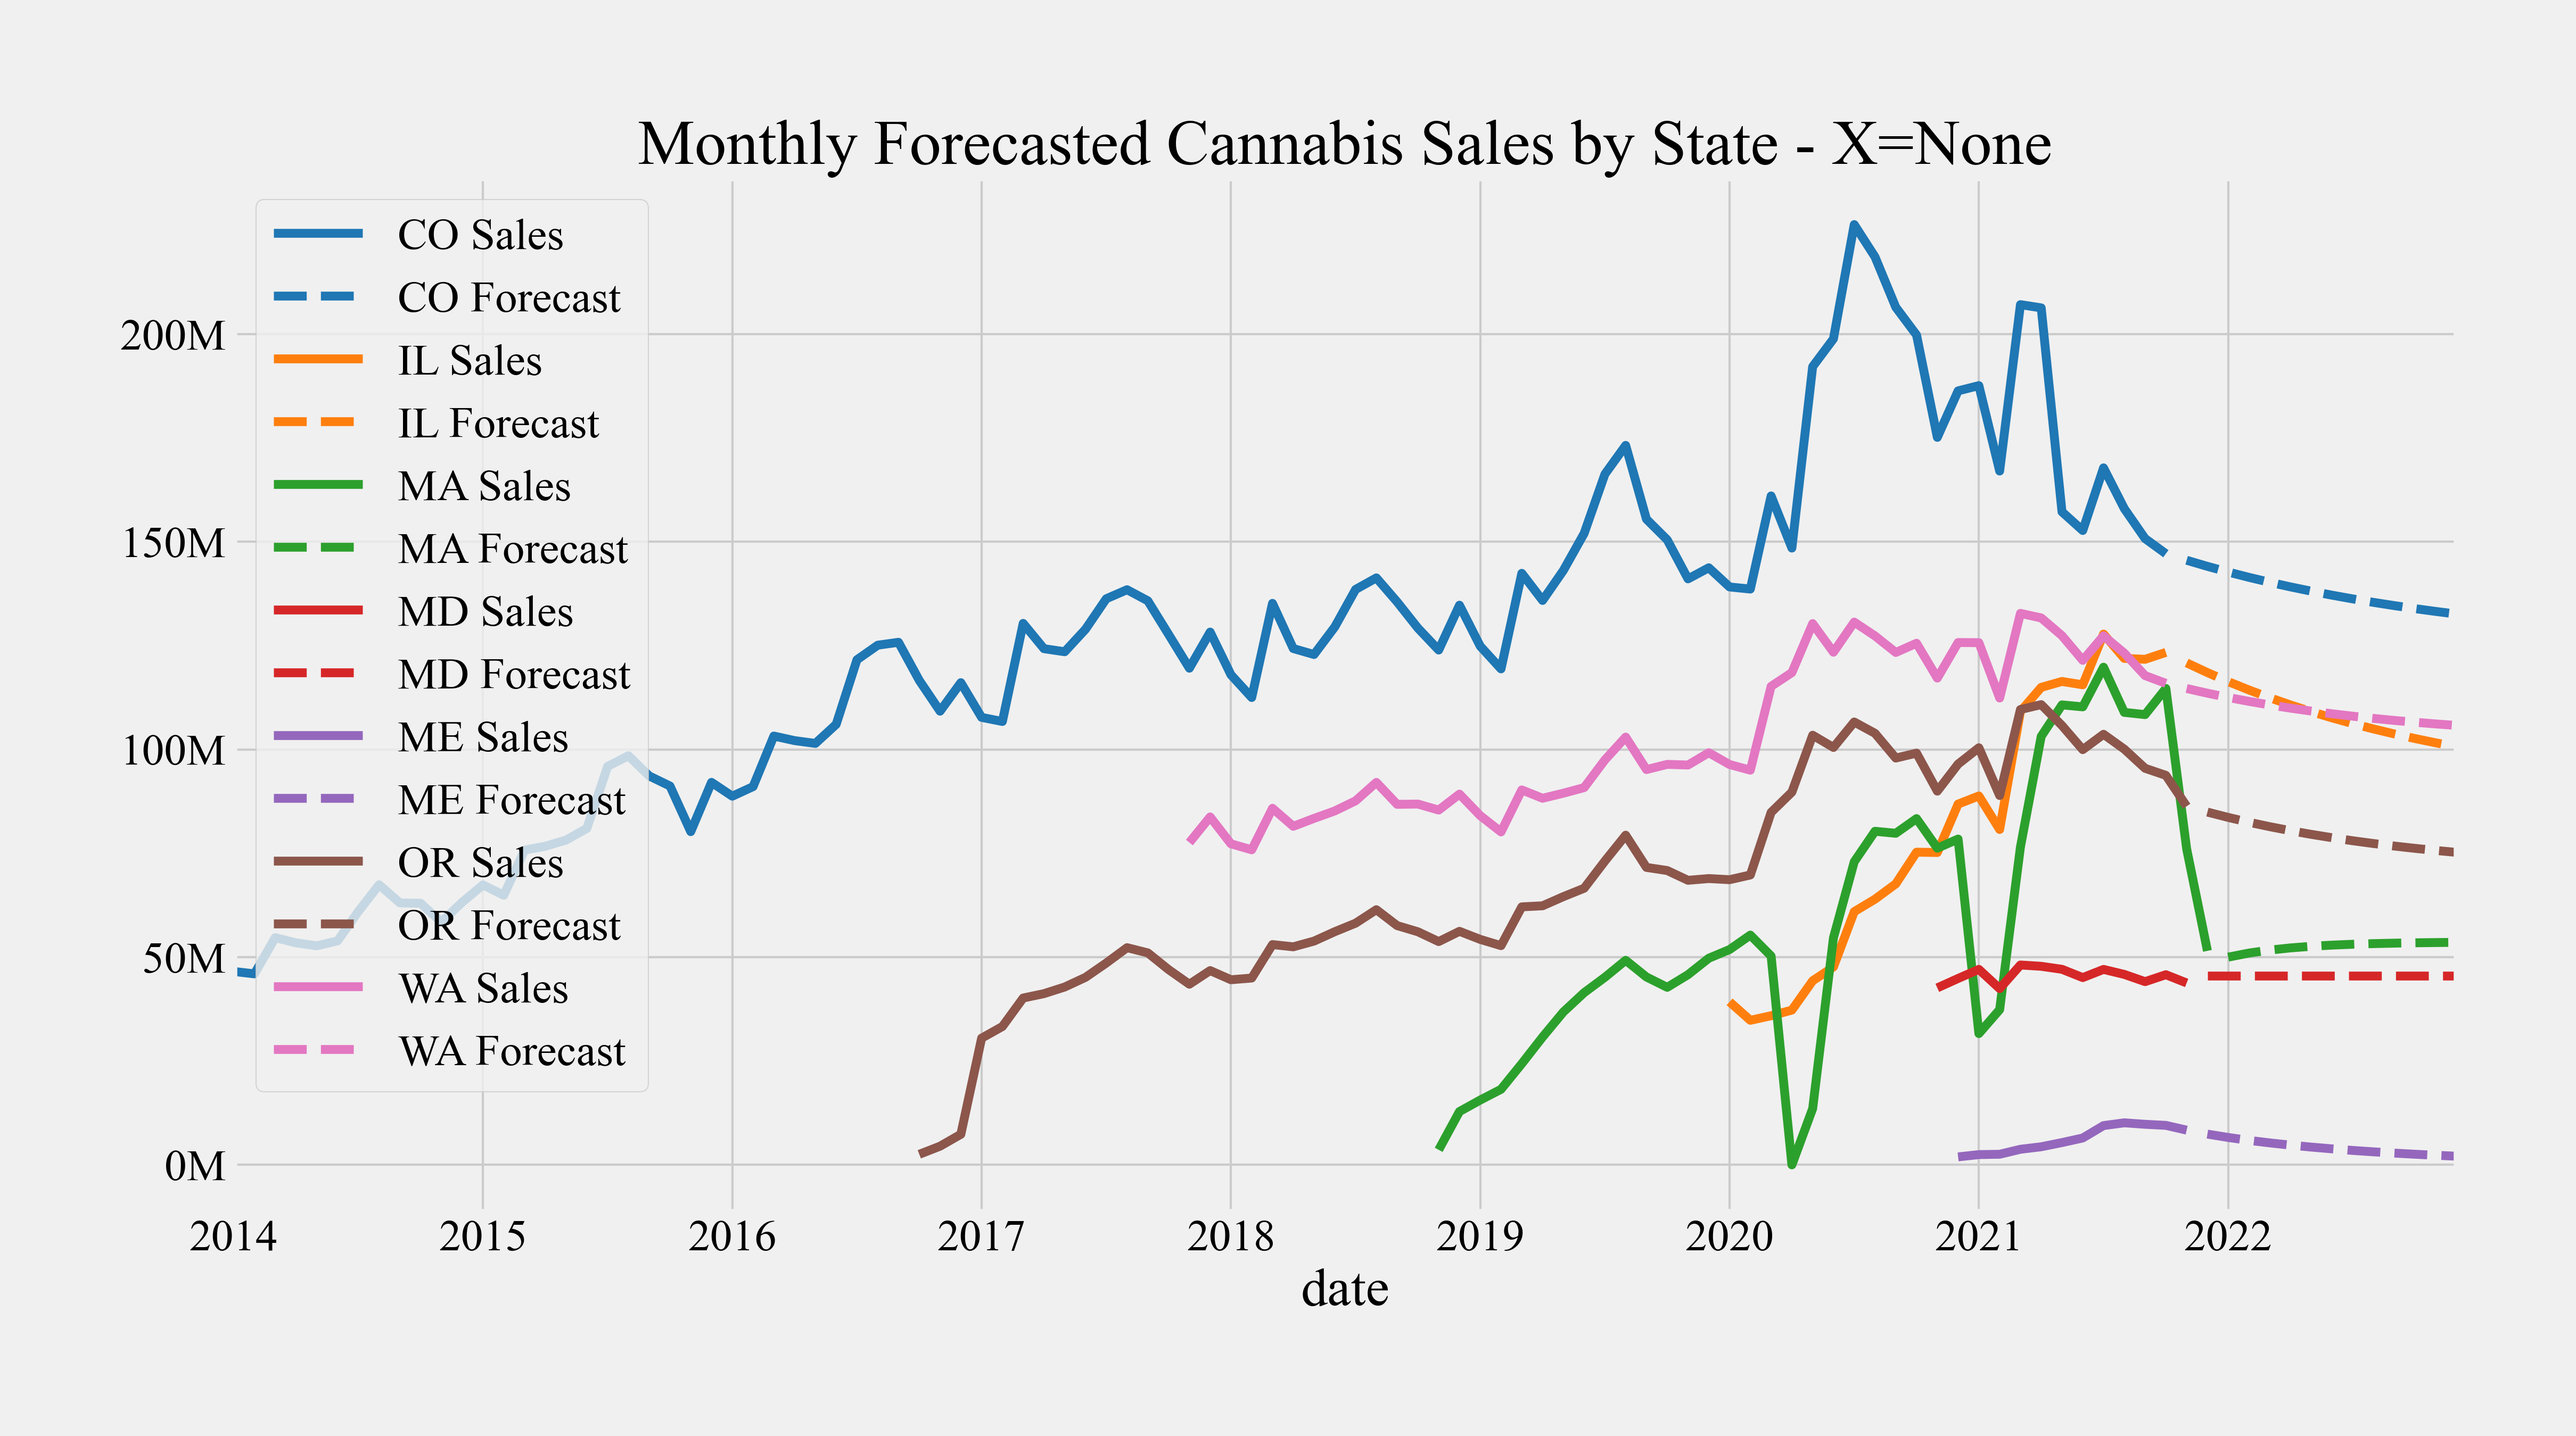
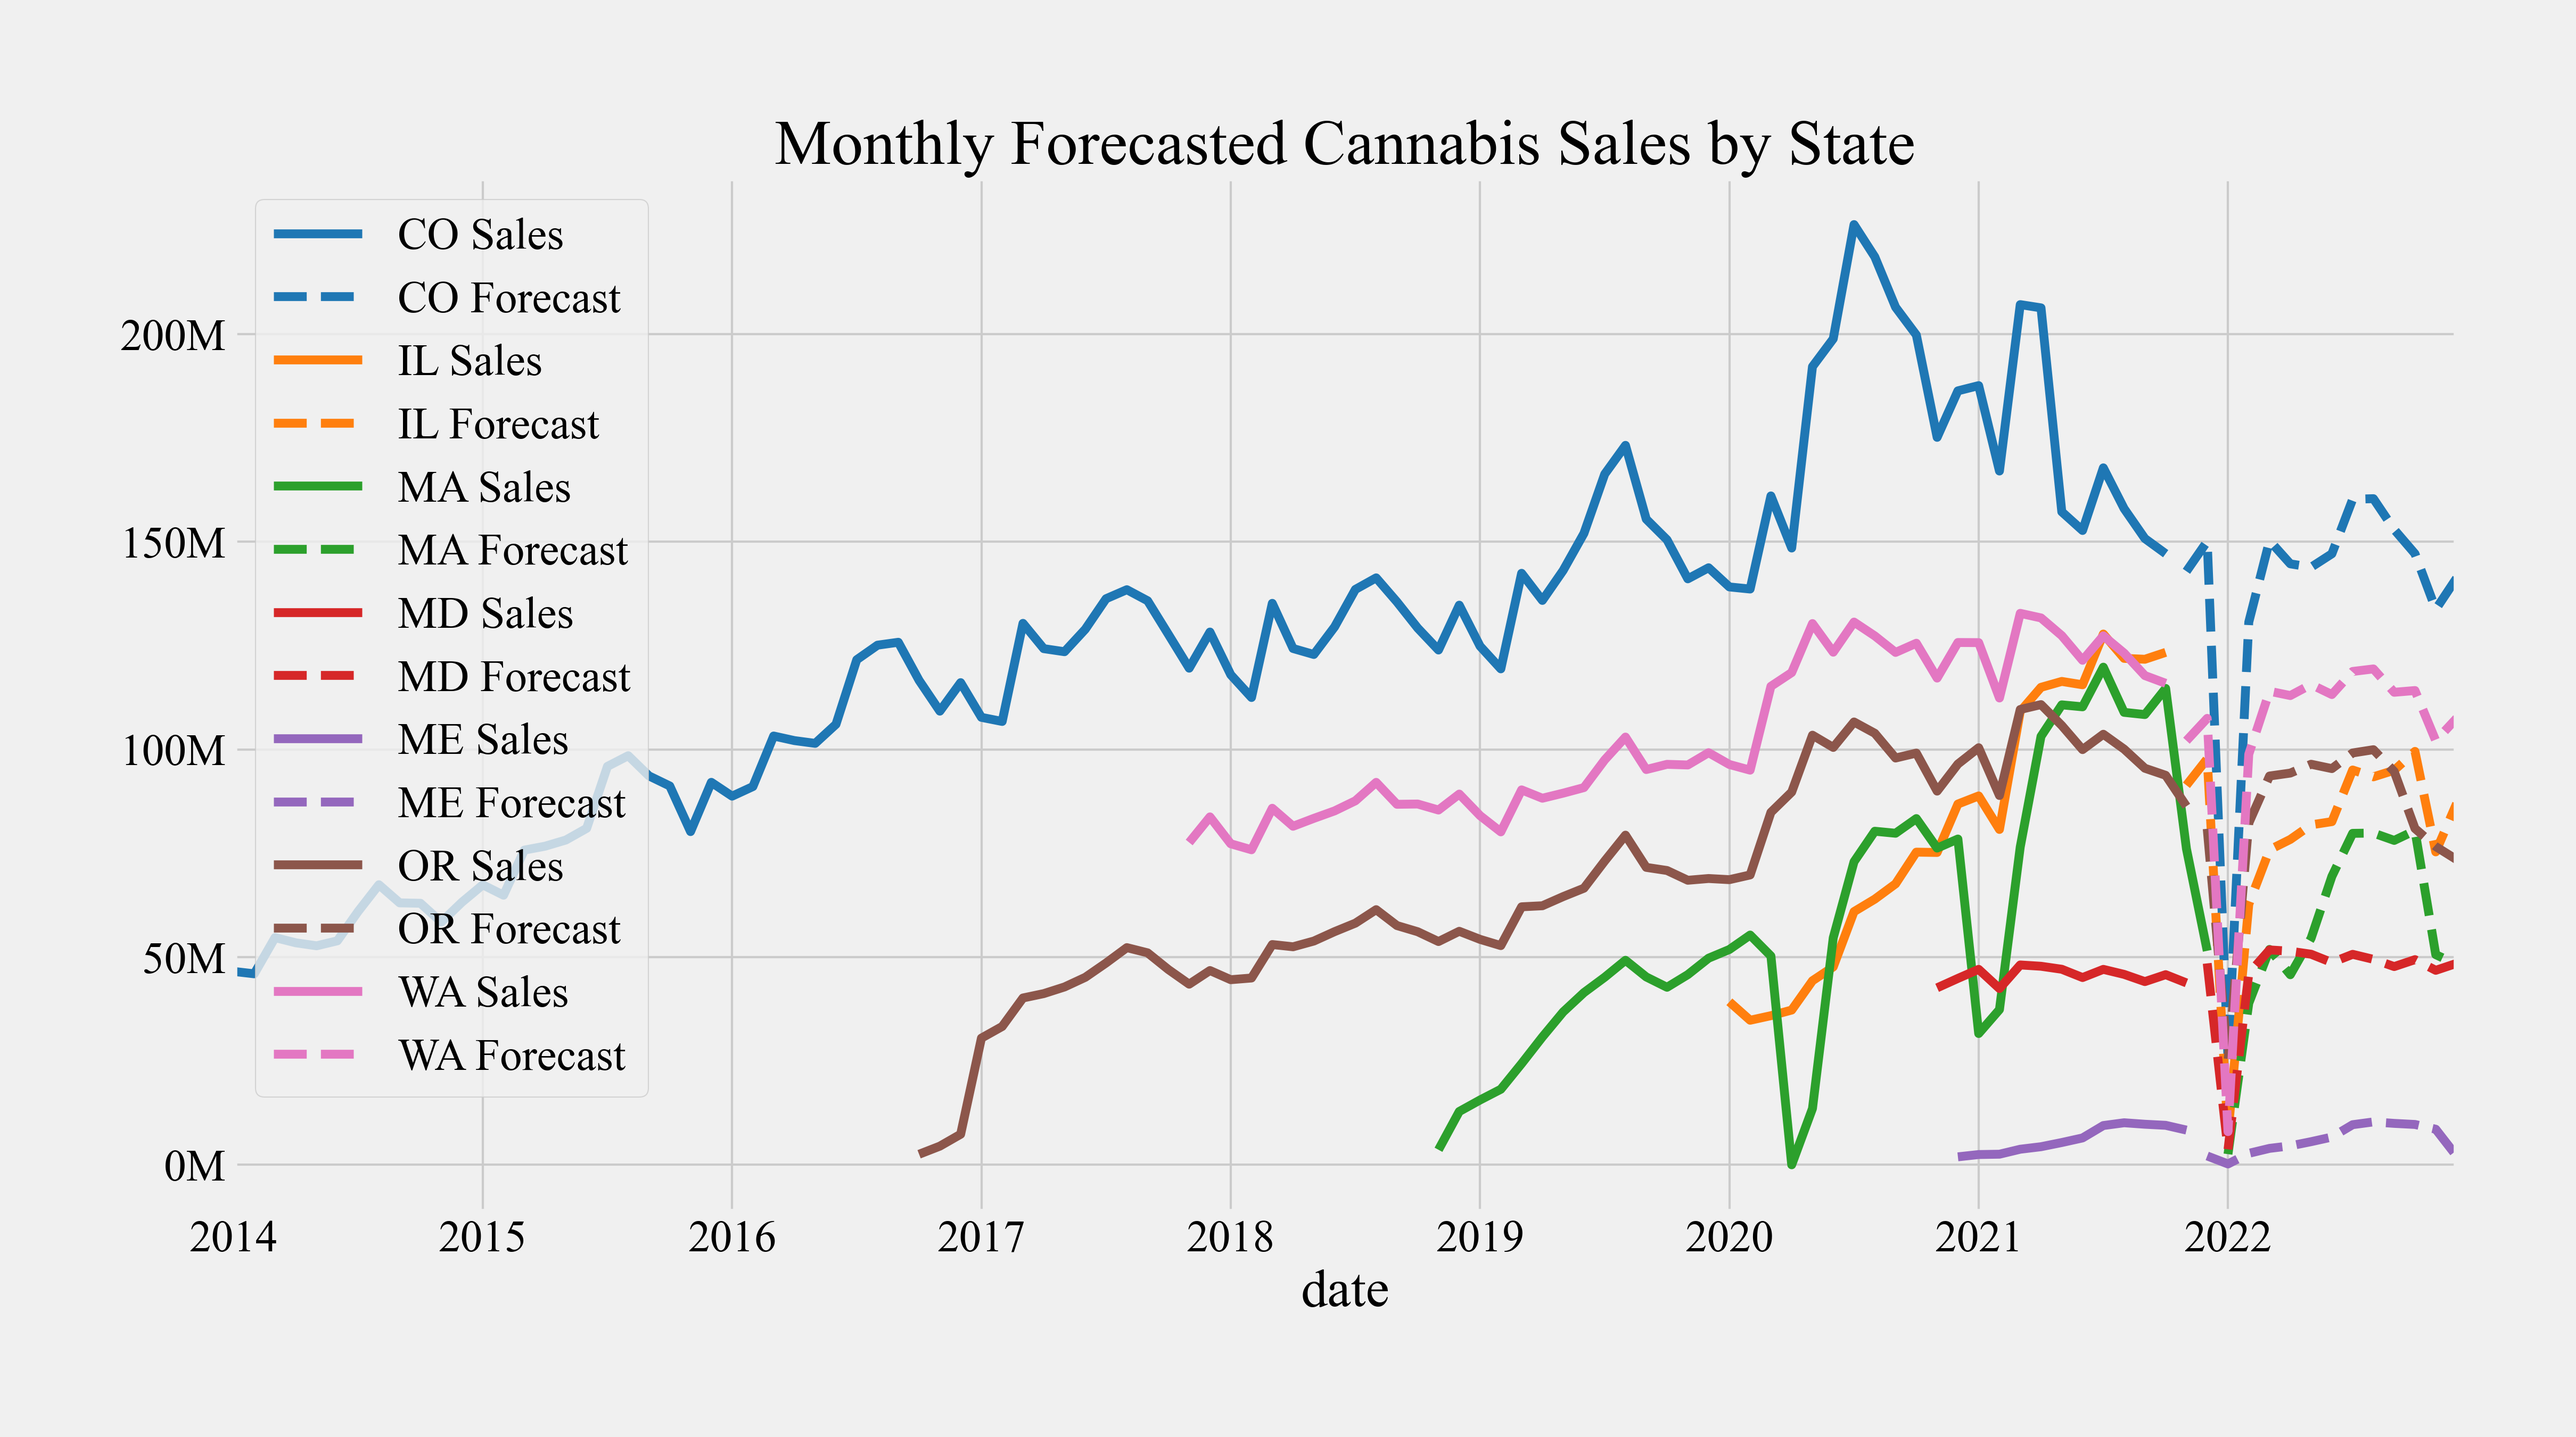
Revert "rewind"
This reverts commit d6dde0a4612be7c0f70e939265f5803702c33948.

diff --git a/2021-12-22/forecasting_state_sales.py b/2021-12-22/forecasting_state_sales.py
@@ -99,7 +99,7 @@ for state in states:
     # Build a forecasting model.
     sales_model = pm.auto_arima(
         series.total_sales,
-        X=month_effects,
+        #X=month_effects,
         start_p=0,
         d=0,
         start_q=0,
@@ -107,6 +107,7 @@ for state in states:
         max_d=6,
         max_q=6,
         seasonal=True,
+        stepwise=True,
         start_P=0,
         D=0,
         start_Q=0,
@@ -120,8 +121,8 @@ for state in states:
     # Forecast sales.
     sales_forecast, sales_conf = forecast_arima(
         sales_model,
-        forecast_horizon,
-        X=forecast_month_effects
+        forecast_horizon#,
+        #X=forecast_month_effects
     )
     
     # Record the forecast.
@@ -150,7 +151,7 @@ for state in states:
     forecasts['{}_forecast'.format(state.lower())].plot(color=color, linestyle='--', label=f'{state} Forecast')
 yaxis_format = FuncFormatter(format_millions)
 ax.yaxis.set_major_formatter(yaxis_format)
-plt.title('Monthly Forecasted Cannabis Sales by State')
+plt.title('Monthly Forecasted Cannabis Sales by State - X=None')
 plt.legend()
 plt.savefig(
     'figures/state_cannabis_sales_forecast.png',
